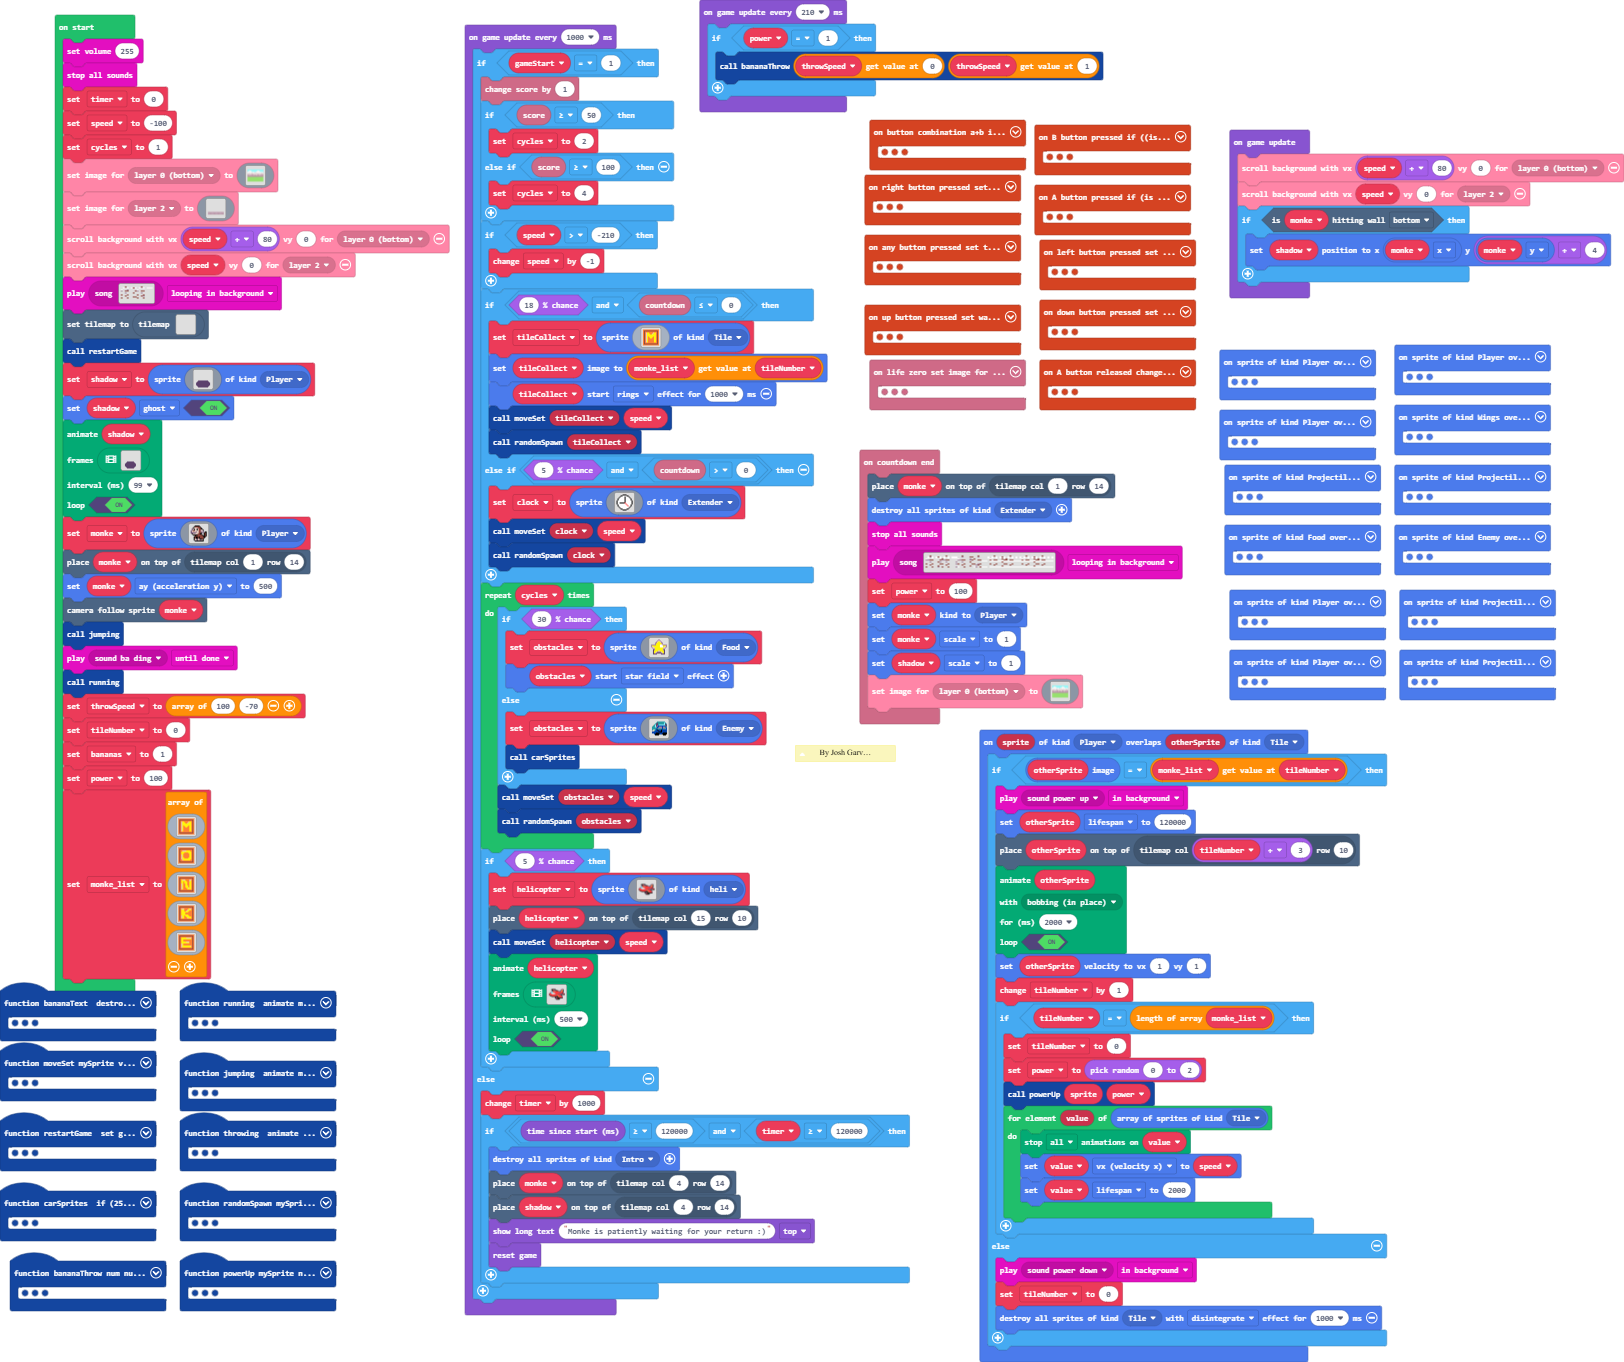
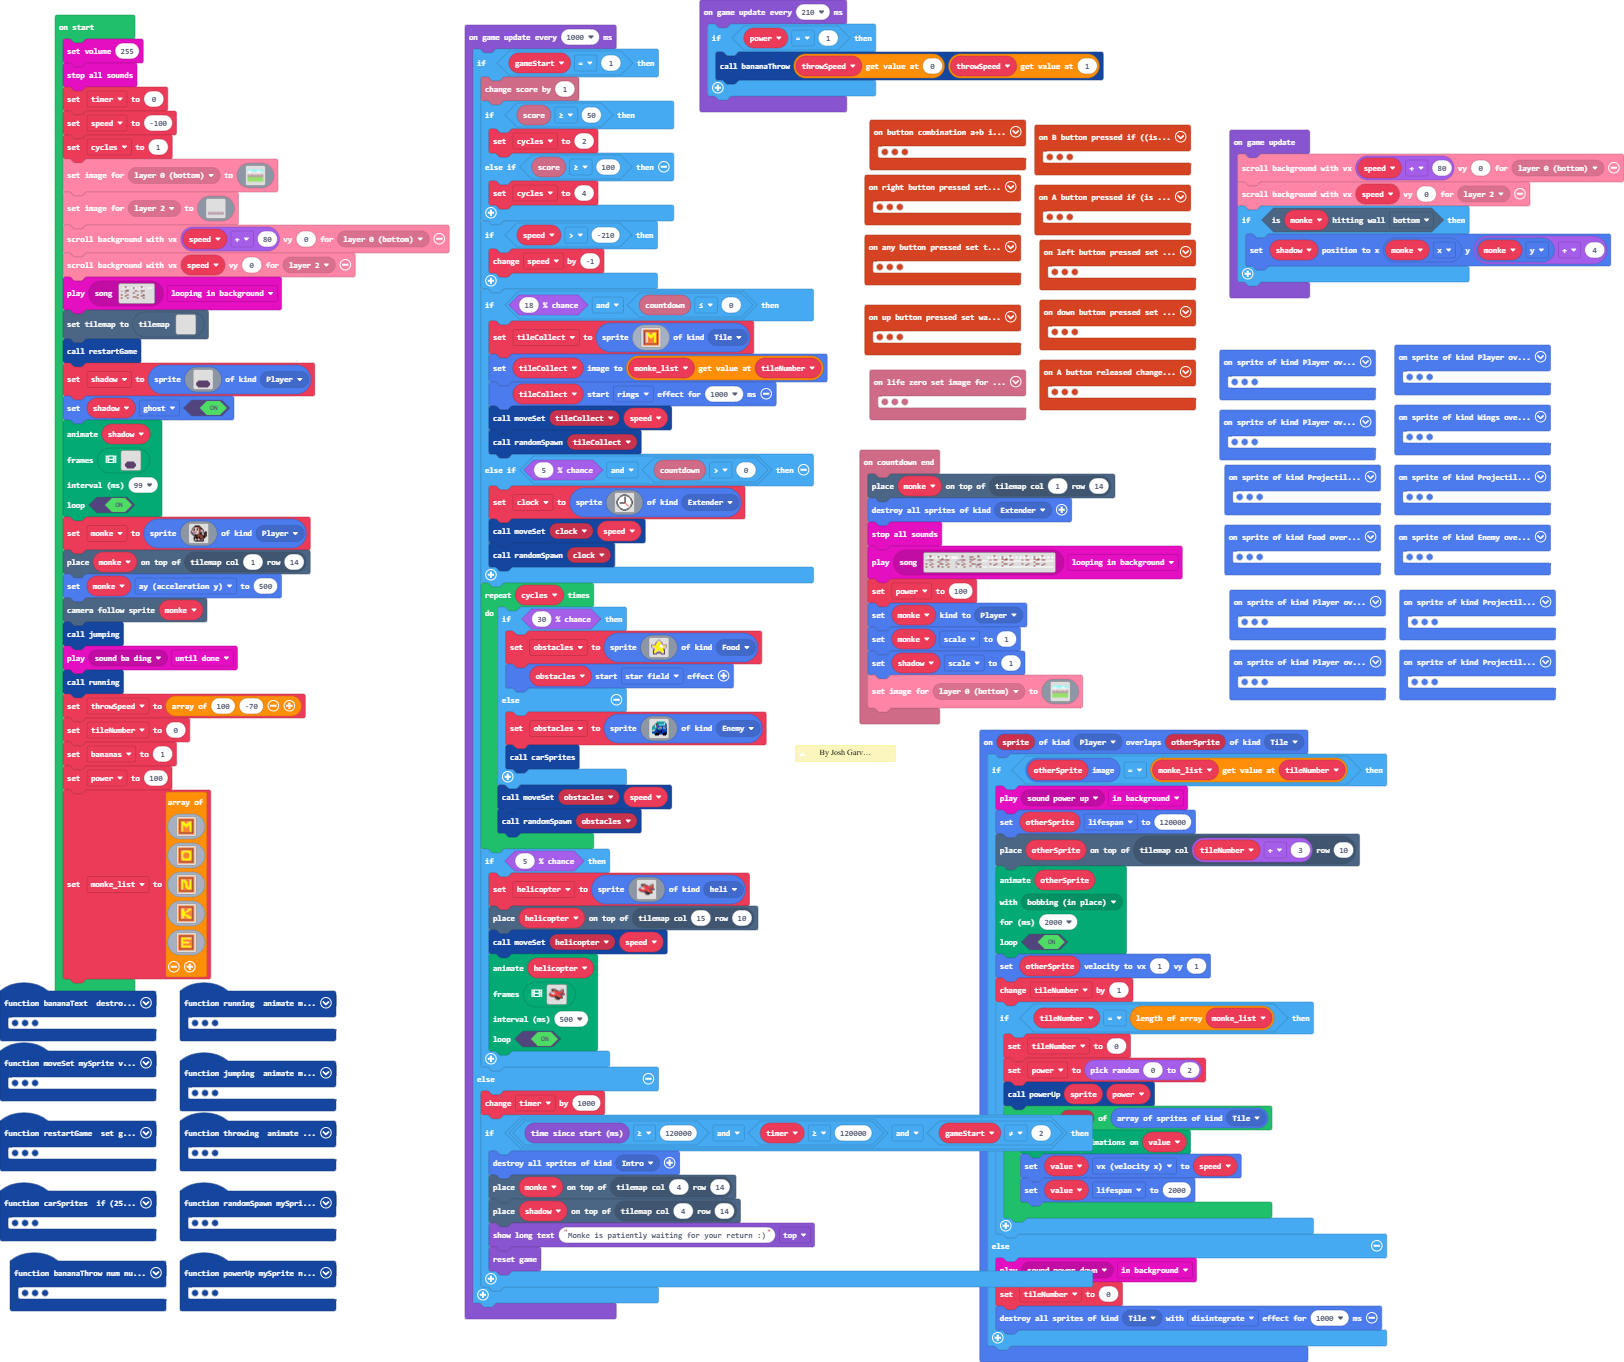
idle screen only for the beginning

Changed region(s): [[0.2771, 0.8018, 0.6773, 0.9868], [0.5234, 0.2467, 0.6466, 0.3084]]

diff --git a/main.ts b/main.ts
@@ -2880,7 +2880,7 @@ game.onUpdateInterval(1000, function () {
         }
     } else {
         timer += 1000
-        if (game.runtime() >= 120000 && timer >= 120000) {
+        if (game.runtime() >= 120000 && timer >= 120000 && gameStart != 2) {
             sprites.destroyAllSpritesOfKind(SpriteKind.Intro)
             tiles.placeOnTile(monke, tiles.getTileLocation(4, 14))
             tiles.placeOnTile(shadow, tiles.getTileLocation(4, 14))
